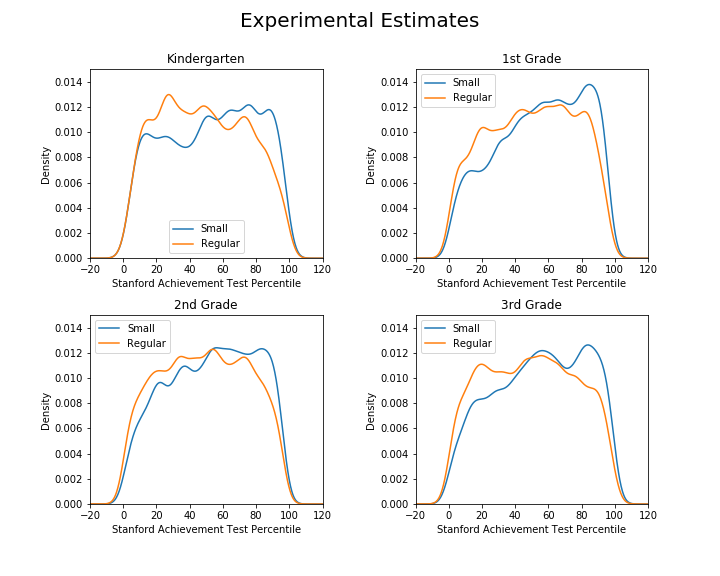
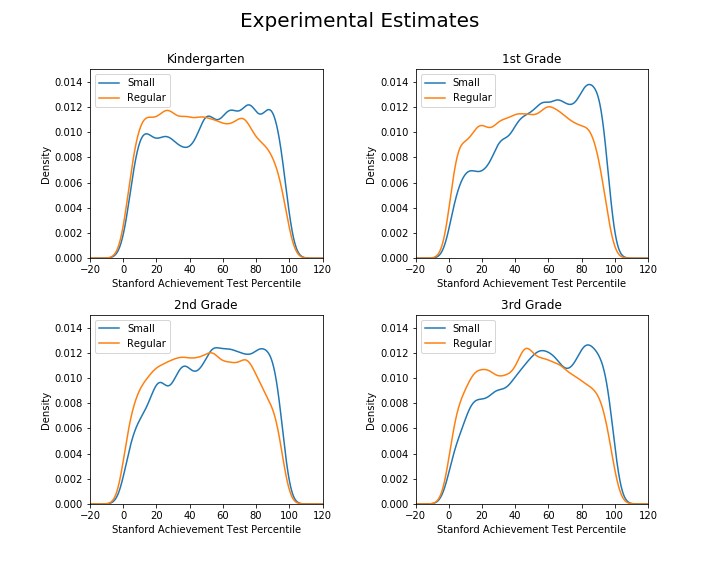
began table V, calculated # blanks.

diff --git a/anich_replication.py b/anich_replication.py
@@ -78,7 +78,15 @@ for i in ['k', '1', '2', '3']:
             avg = row.mean()
             avg_percentile[f'g{i}_avg_pc'][k] = avg
     data = pd.concat([data, avg_percentile], axis = 1, sort = True)
-        
+
+#drop all obs without avg percentile
+for i in ['k','1','2','3']:
+    data.dropna(subset = [f'g{i}_avg_pc',], inplace = True)
+
+for i in ['k','1','2','3']:
+    blanks = data[f'g{i}_avg_pc'].loc[data[f'g{i}_avg_pc'].isna() == True]
+    print(blanks.shape)
+
 #calculate attrition dummy (left = 1, never left = 0)
 reference_df = data[['gkclasstype',
                     'g1classtype',
@@ -128,14 +136,31 @@ wa.replace(
         0,
         inplace = True,
 )
+#average value of dummy is 0.62
+#so replace every third missing value with 1, others with zero
+#134 missing values replaced
+count = 1
+blanks = wa.loc[np.isnan(wa) == True]
+for i, item in blanks.iteritems():
+    if count % 3 == 0:
+        wa[i] = 1
+    else:
+        wa[i] = 0
 data.insert(len(data.columns), 'white/asian', wa)
+
 
 #calculate free lunch dummy
 for i in ['k', '1', '2', '3']:
     dummy = data[f'g{i}freelunch'].copy()
     dummy.replace('FREE LUNCH', 1, inplace = True)
     dummy.replace('NON-FREE LUNCH', 0, inplace = True)
+    #average of dummy is .48
+    #so replace very other missing value with 1, others with zero
+    #<50 in each year after dropping blank pcs
+    blanks = dummy.loc[np.isnan(dummy) == True]
+    print(blanks.shape)
     data.insert(len(data.columns), f'{i}_freelunch', dummy)
+    
 
 #create dummies to control for school effects
 school_effects = {}
@@ -170,7 +195,81 @@ for i in ['k', '1', '2', '3']:
     regaide.where(regaide == 1, other = 0, inplace = True)
     regaide = regaide.astype('int32')
     data.insert(len(data.columns), f'd_{i}regaide', regaide)
+
+#create girl dummy
+d_girl = data['gender'].copy()
+d_girl = d_girl.loc[d_girl.notna() == True]
+d_girl.replace({'male': 0, 'female': 1}, inplace = True)
+blanks = d_girl.loc[np.isnan(d_girl) == True]
+#no blanks
+print(blanks.shape)
+data.insert(len(data.columns), 'd_girl', d_girl)
+
+#create teacher is white dummy
+for i in ['k', '1', '2', '3']:
+    dummy = data[f'g{i}trace'].copy()
+    dummy.replace({'black': 0, 'asian': 0, 'white': 1}, inplace = True)
+    blanks = dummy.loc[np.isnan(dummy) == True]
+    print(blanks.shape)
+    #<26 in each year after dropping blank pcs
+    data.insert(len(data.columns), f'd_{i}trace', dummy)
     
+#create teacher has masters dummy
+for i in ['k', '1', '2', '3']:
+    dummy = data[f'g{i}thighdegree'].copy()
+    dummy.replace(
+            {
+                    'bachelors': 0,
+                    'masters': 1,
+                    'MASTERS +': 0,
+                    'specialist': 0,
+                    'doctoral': 0,
+            },
+            inplace = True,
+    )
+    blanks = dummy.loc[np.isnan(dummy) == True]
+    print(blanks.shape)
+    #<26 each year after dropping blank pcs
+    data.insert(len(data.columns), f'd_{i}tmasters', dummy)
+
+#create initial assignment small, regaide dummies
+small = data['cmpstype'].copy()
+small.replace(
+        {
+                'small': 1,
+                'regular': 0,
+                'aide': 0,
+        },
+        inplace = True,
+)
+data.insert(len(data.columns), 'assnd_small', small)
+aide = data['cmpstype'].copy()
+aide.replace(
+        {
+                'small': 0,
+                'regular': 0,
+                'aide': 1,
+        },
+        inplace = True,
+)
+data.insert(len(data.columns), 'assnd_aide', aide)
+
+#create teacher male dummy
+for i in ['k', '1', '2', '3']:
+    dummy = data[f'g{i}tgen'].copy()
+    print(dummy.unique())
+    dummy.replace(
+            {
+                    'male': 1,
+                    'female': 0,
+            },
+            inplace = True,
+    )
+    blanks = dummy.loc[dummy.isna() == True]
+    print(blanks.shape)
+    #<17 missing each year afte dropping blank pcs
+    data.insert(len(data.columns), f'd_{i}tmale', dummy)
+
 """
 Table I
 """
@@ -374,9 +473,114 @@ table_iii.index.name = 'Actual class size in first grade'
 table_iii.to_csv('tables_figures/table_III.csv')
 
 """
-Figure 1
-- distribution of average percentile score by class size and grade
+Table V
+- create dummy for girl, white teacher, tch master's degree
+    - gender
+    - gktrace
+    - gkthighdegree
+- control for teacher exp
+    - gktyears
+- regress using actual class size and initial class size for that grade
+    - actual: gkclasstype
+    - assigned: cmpstype
+    - groups NOT based upon when entered.
+- display R2
+- display cluster robust SE
+- all reg include constant
+
 """
+reg = Regression(data)
+for i in ['k', '1', '2', '3']:
+    
+    #outcomes of interest
+    outcome = f'g{i}_avg_pc'
+    
+    #begin defining controls for each regression
+    classtype_controls = {
+        'OLS: actual class size': [
+                'd_{i}small',
+                'd_{i}regaide',
+                ],
+        'Reduced form: initial class size': [
+                'assnd_small',
+                'assmd_aide',
+                ],
+    }
+    #create subtable
+    sub_col = [1,2,3,4,5,6,7,8]
+    super_label = 'Assignment group in first grade'
+    l = list(classtype_controls.keys())
+    super_col = [
+            l[0],
+            l[0],
+            l[0],
+            l[0],
+            l[1],
+            l[1],
+            l[1],
+            l[1],
+    ]
+    multi_col = pd.MultiIndex.from_arrays([super_col, sub_col])
+    sub_table = pd.DataFrame(columns = multi_col)
+    sub_table.insert(0, 'Explanatory Variable', np.nan)
+    
+    sub_col = 0
+    controls = {}
+    for label, value in classtype_controls.items():
+        #finish defining controls for each subsection
+        control_1 = value[:]
+        controls['c1'] = control_1
+        control_2 = control_1[:]
+        control_2 += school_effects[f'g{i}']
+        controls['c2'] = control_2
+        control_3 = control_2[:]
+        control_3 += [
+                'white/asian',
+                f'{i}_freelunch',
+                'd_girl',
+        ]
+        controls['c3'] = control_3
+        control_4 = control_3[:]
+        control_4 += [
+                f'g{i}tyears',
+                f'd_{i}trace',
+                f'd_{i}tmasters',
+                f'd_{i}tmale',
+        ]
+        controls['c4'] = control_4
+        
+        #enter data into subtable
+        label_vars = {
+                'Small class': 'small',
+                'Regular/aide class': 'aide',
+                'White/Asian (1 = yes)': 'white/asian',
+                'Girl (1 = yes)': 'd_girl',
+                'Free lunch (1 = yes)': f'{i}_freelunch',
+                'White teacher': f'd_{i}trace',
+                'Male teacher': f'd_{i}tmale',
+                'Teacher experience': f'g{i}tyears',
+                "Master's Degree": f'd_{i}tmasters',
+                'School fixed effects': None,
+                'R2': None,
+        }
+        sub_table['Explanatory Variable'] = list(label_vars.keys())
+        for j in [1,2,3,4]:
+            sub_col += 1
+            #run OLS regression with cluster robust SE, grouping by school id
+            print(i,sub_col)
+            reg.cluster_ols(
+                    outcome,
+                    controls[f'c{j}'],
+                    grouping_var = f'g{i}schid',
+            )
+        
+
+
+
+"""
+Figure 1
+"""
+
 figure_i_data = data[[
         'd_ksmall',
         'd_kregaide',
@@ -425,7 +629,7 @@ for i in [0,1]:
         ].copy()
         small_data.name = 'Small'
         reg_data = figure_i_data.loc[
-                figure_i_data[f'd_{label_key}regaide'] == 1,
+                figure_i_data[f'd_{label_key}small'] == 0,
                 f'g{label_key}_avg_pc',
         ]
         reg_data.name = 'Regular'
